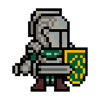
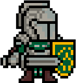
add health

diff --git a/hero_and_mobs.py b/hero_and_mobs.py
@@ -74,8 +74,10 @@ class Mob(pygame.sprite.Sprite):
         if self.can_hit:
             if self.hero_pos[0] < self.rect.x - 1:
                 self.rect.x -= 1
+                self.image = pygame.image.load(f'images/mob_left.png')
             if self.hero_pos[0] > self.rect.x - 1:
                 self.rect.x += 1
+                self.image = pygame.image.load(f'images/mob_right.png')
             if self.hero_pos[1] < self.rect.y - 1:
                 self.rect.y -= 1
             if self.hero_pos[1] > self.rect.y - 1:
@@ -84,8 +86,10 @@ class Mob(pygame.sprite.Sprite):
         else:
             if self.hero_pos[0] < self.rect.x - 1:
                 self.rect.x += 1
+                self.image = pygame.image.load(f'images/mob_right.png')
             if self.hero_pos[0] > self.rect.x - 1:
                 self.rect.x -= 1
+                self.image = pygame.image.load(f'images/mob_left.png')
             if self.hero_pos[1] < self.rect.y - 1:
                 self.rect.y += 1
             if self.hero_pos[1] > self.rect.y - 1:

diff --git a/main.py b/main.py
@@ -56,15 +56,20 @@ while running:
         if distance <= 400:
             mob.run()
 
-    screen.fill(WHITE)
+    screen.fill((69, 68, 89))
+
+    pygame.draw.rect(screen, BLACK, (5, 5, 160, 30), 1)
+    for i in range(player.health):
+        pygame.draw.rect(screen, (235, 55, 52), (5 + 20 * i, 5, 20, 30))
 
     font = pygame.font.Font(None, 50)
-    text = font.render(f'{player.health}', True, RED)
-    screen.blit(text, (5, 5))
+    text = font.render(f'{player.health}', True, BLACK)
+    screen.blit(text, (145, 5))
 
     hero_sprite.draw(screen)
     mobs_sprite.draw(screen)
 
+    print(clock.get_fps())
     clock.tick(FPS)
     pygame.display.flip()
 pygame.quit()

diff --git a/settings.py b/settings.py
@@ -10,3 +10,4 @@ BLACK = 0, 0, 0
 RED = 255, 0, 0
 GREEN = 0, 255, 0
 BLUE = 0, 0, 255
+GRAY = 128, 128, 128
